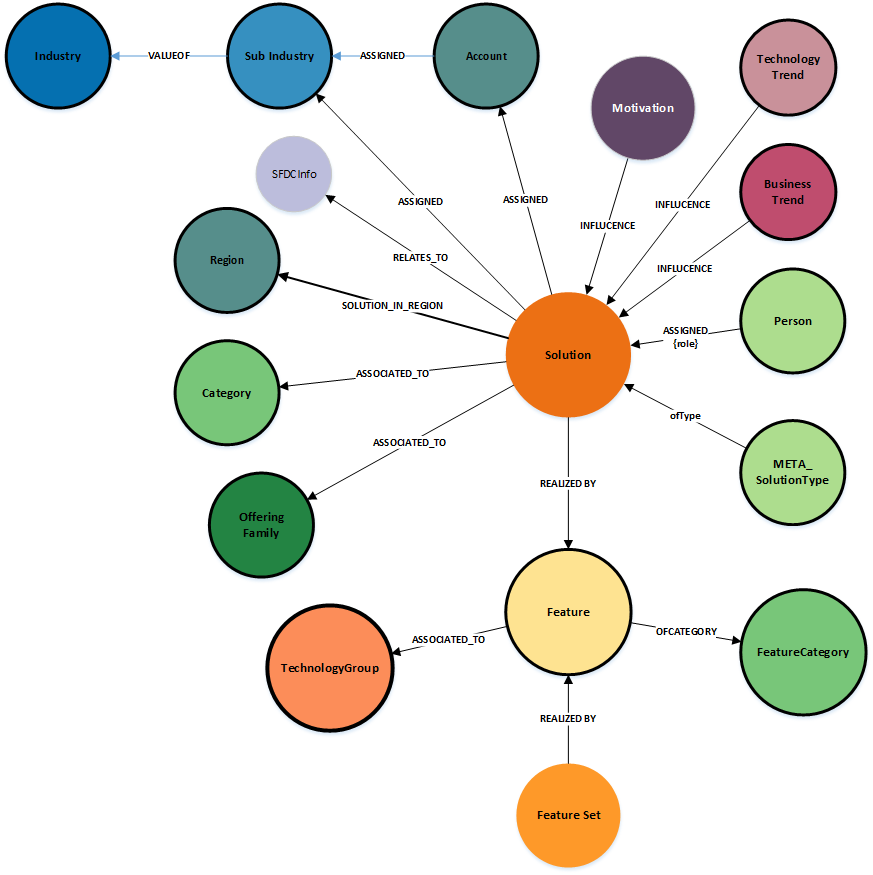
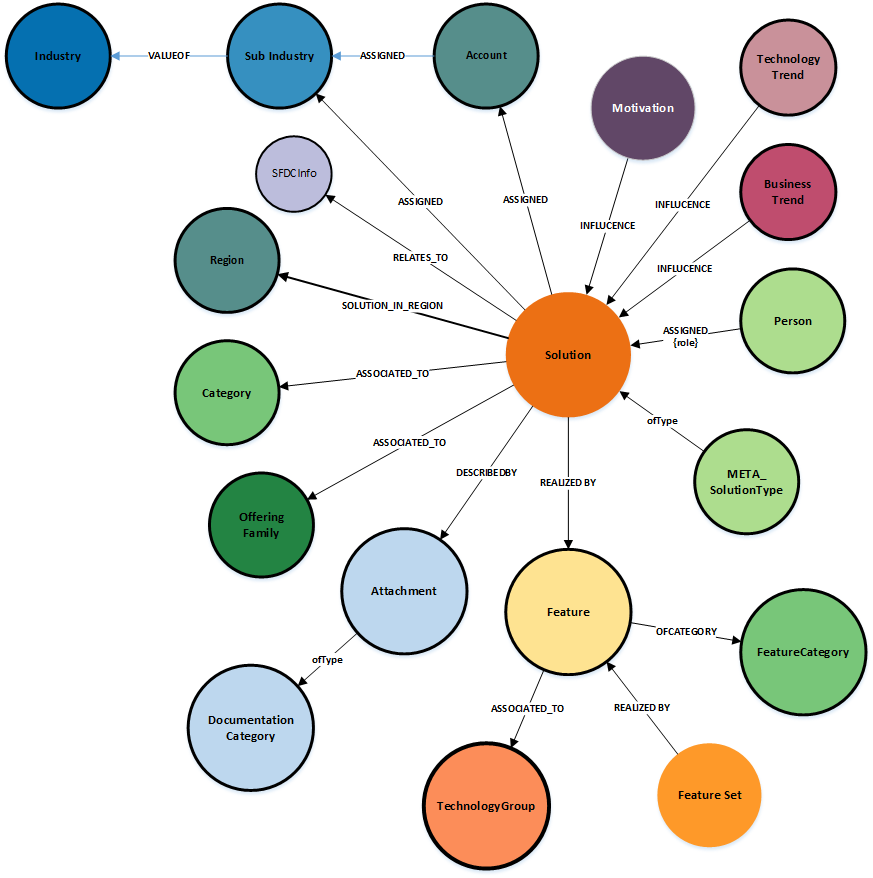
:pencil: updates to the solution model

diff --git a/MetaModels/SolutionMetaModel.md b/MetaModels/SolutionMetaModel.md
@@ -30,7 +30,7 @@ Ratio : 1
 |solution.FTE|total number of resources who delivered the solution (end-2-end)|number
 
 
-####Node Label: SFDCInfo
+#### Node Label: SFDCInfo
 Scope : Captures key information related to the SFDC opportunity
 Architecture Layer : Business
 Ratio : n:n
@@ -41,7 +41,7 @@ Ratio : n:n
 |OpportunityID|ID of the SFDC opportunity|string
 
 
-####Node Label: Motivation
+#### Node Label: Motivation
 Scope : Key Business drivers and goals
 Architecture Layer : Business
 Ratio : 1:n
@@ -67,7 +67,7 @@ Ratio : 1:n
 |description  
 
 
-#####Node Label: BusinessTrend
+##### Node Label: BusinessTrend
 Scope :  Readonly - selected from trend catalog
 Architecture Layer : Business
 Ratio : 1:n
@@ -115,7 +115,6 @@ Ratio : 1:n
 |id|system generated
 |name|as defined in Global Pass
 |email|as defined in Global Pass
-
 
 
 
@@ -232,6 +231,30 @@ Ratio : n:n
 |id|system generated
 |name |
 
+#### Node Label: Attachment
+Scope : Information related to any attachments associated with the solution
+Ratio : 1:n
+
+|Property|Description|
+|----|----|
+|id|system generated
+|name |short name of the attachment
+|size| calculated filesize of any uploaded attachment
+|attachmentType|LOCAL or REMOTE  identifier 
+|docType|file type identifier, eg PDF, video
+|uri|location of the attachment 
+
+
+#### Node Label: DocumentationCategory
+Scope : Extended defintion node for the type of documentation (e.g `github repo`)
+Readonly - defined within master dictionary 
+Ratio : 1:1
+
+|Property|Description|
+|----|----|
+|id|system generated
+|name |
+
 
 ### Relationships
 |Source|Destination|Name|Properties|
@@ -253,3 +276,5 @@ Ratio : n:n
 |Solution|Region|SOLUTION_IN_REGION
 |Account|SubIndustry|ASSIGNED
 |SubIndustry|Industry|VALUEOF
+|Solution|Attachment|DESCRIBEDBY
+|Attachment|DocumentationCategory|ofType
